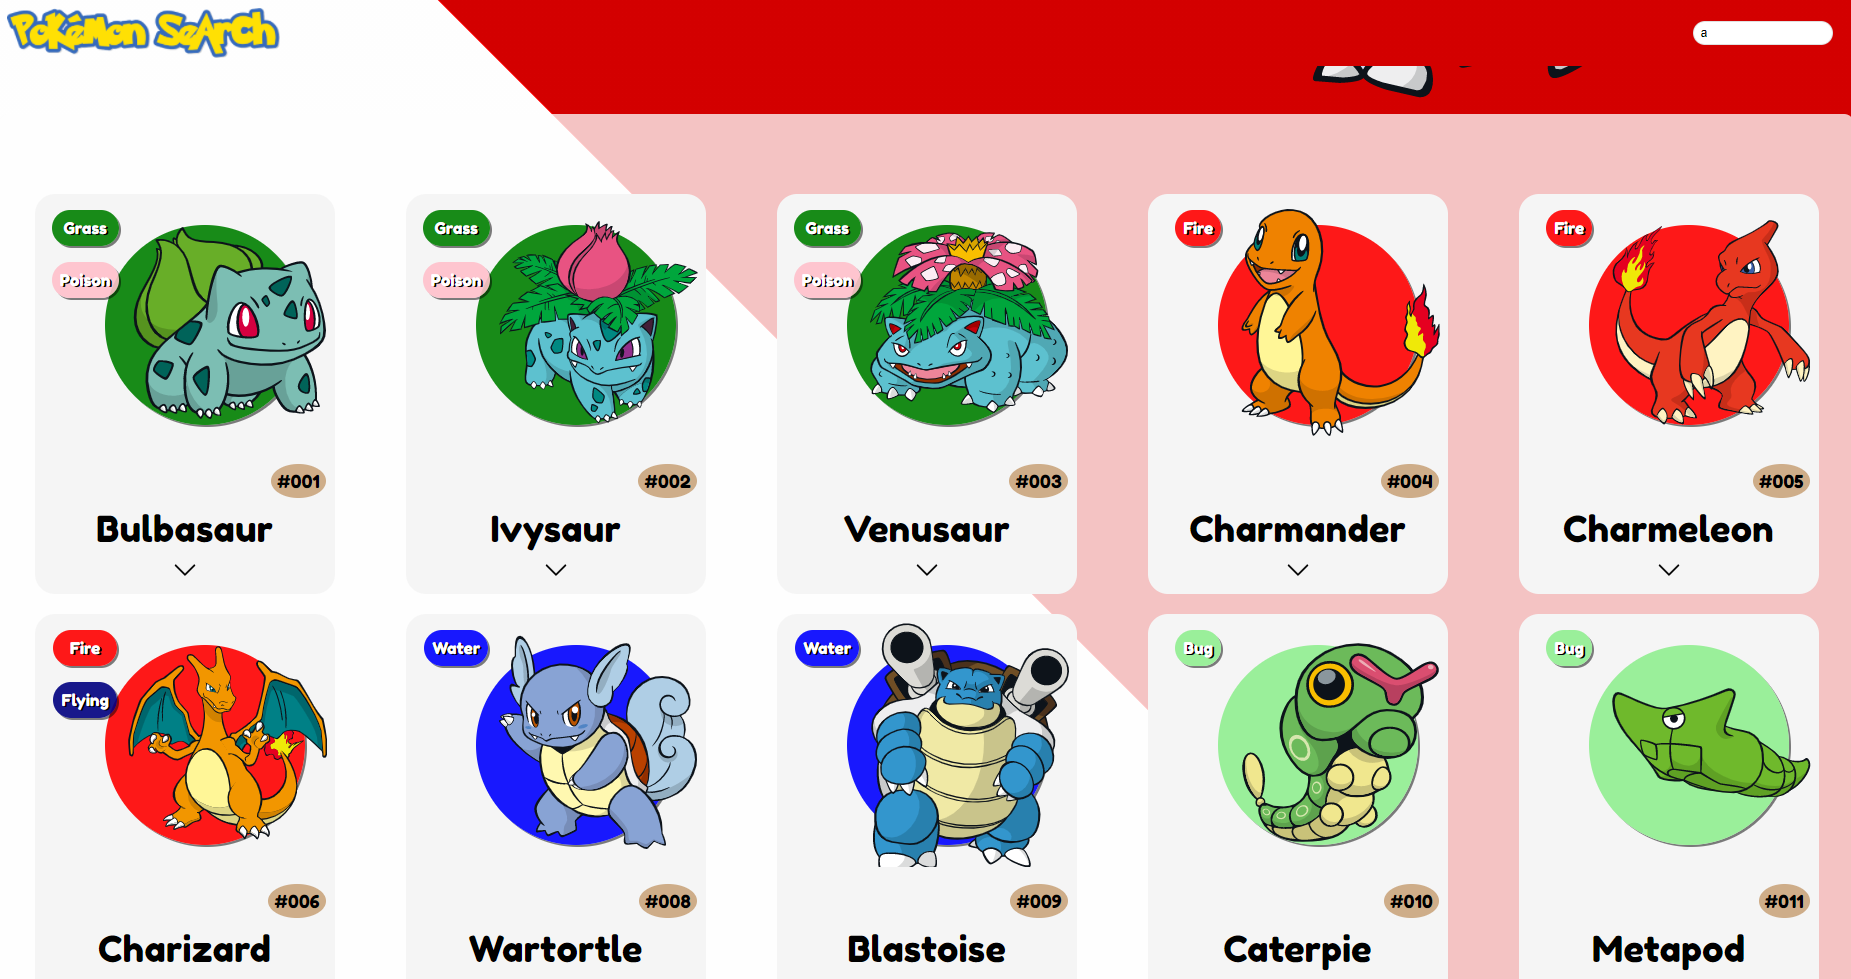
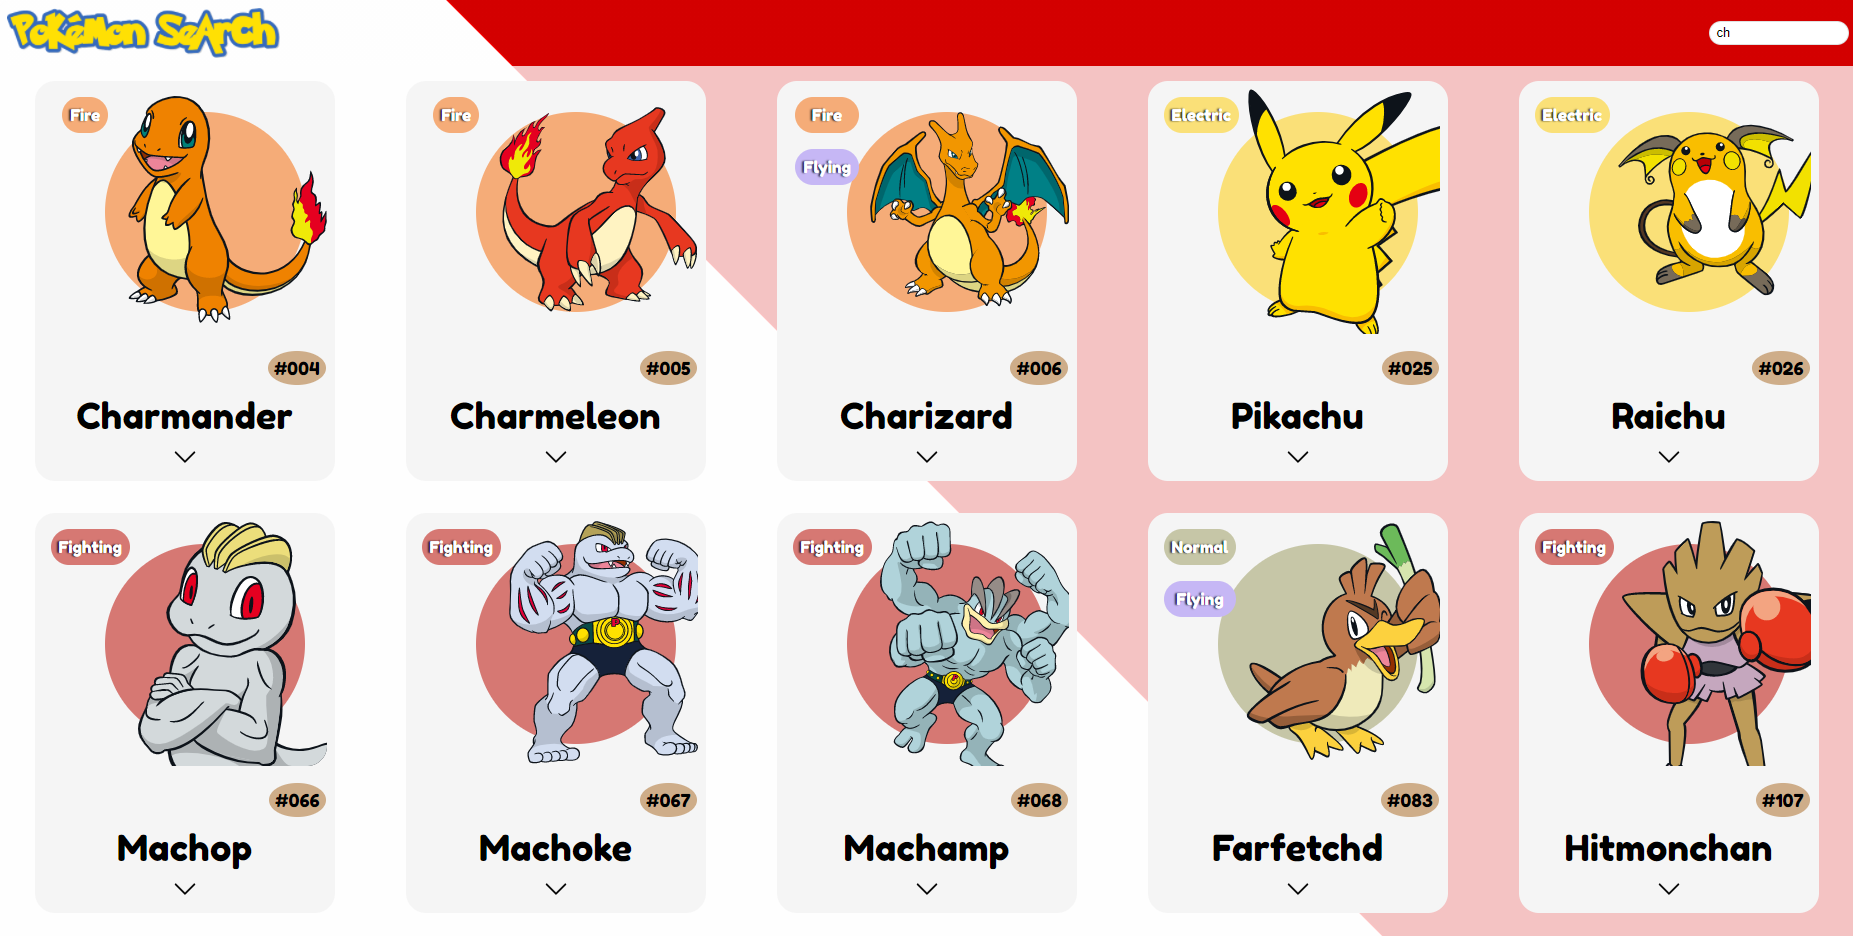
Alterada a paleta de cores dos tipo de pokemons

diff --git a/src/components/shared/card/Card.vue b/src/components/shared/card/Card.vue
@@ -58,12 +58,9 @@
         </svg>
 
         <transition name="card_fade">
-          <div v-show="visible">
-            Lorem ipsum, dolor sit amet consectetur adipisicing elit. Impedit
-            cupiditate officia architecto eveniet hic earum ab ad quae optio nam
-            esse voluptatem, corporis totam rerum fugit temporibus id aspernatur
-            tempore.
-          </div>
+          <ul v-show="visible" v-for="stat of pokemon.stats">
+            <li>{{ stat.stat.name }} - {{ stat.base_stat }}</li>
+          </ul>
         </transition>
       </div>
     </div>
@@ -97,73 +94,73 @@ export default {
 
 <style scoped>
 .normal {
-  background: rgba(241, 241, 241, 0.9);
-  box-shadow: 2px 2px rgba(0, 0, 0, 0.2);
+  background: #C6C6A7;
 }
 .fire {
-  background: rgba(255, 0, 0, 0.9);
-  box-shadow: 2px 2px rgba(0, 0, 0, 0.5);
+  background: #F5AC78;
 }
 .water {
-  background: rgba(0, 0, 255, 0.9);
-  box-shadow: 2px 2px rgba(0, 0, 0, 0.5);
+  background: #9DB7F5;
 }
 .grass {
-  background: rgba(0, 128, 0, 0.9);
-  box-shadow: 2px 2px rgba(0, 0, 0, 0.5);
+  background: #A7DB8D;
 }
 .electric {
-  background: rgba(255, 255, 0, 0.9);
-  box-shadow: 2px 2px rgba(0, 0, 0, 0.5);
+  background: #FAE078
 }
 .ice {
-  background: rgba(173, 216, 230, 0.9);
-  box-shadow: 2px 2px rgba(0, 0, 0, 0.5);
+  background: #BCE6E6;
 }
-.poison,
+.poison {
+  background: #C183C1;
+}
 .fairy {
-  background: rgba(255, 192, 203, 0.9);
-  box-shadow: 2px 2px rgba(0, 0, 0, 0.5);
+  background: #FABDC9;
 }
 .psychic {
-  background: rgba(128, 0, 128, 0.9);
-  box-shadow: 2px 2px rgba(0, 0, 0, 0.5);
+ background: #FA92B2;
+}
+.physical {
+  background: #d96358;
 }
 .fighting {
-  background: rgba(139, 0, 0, 0.9);
-  box-shadow: 2px 2px rgba(0, 0, 0, 0.5);
+  background: #D67873;
 }
 .ground {
-  background: rgba(165, 42, 42, 0.9);
-  box-shadow: 2px 2px rgba(0, 0, 0, 0.5);
+  background: #EBD69D;
 }
 .rock {
-  background: rgba(128, 128, 128, 0.9);
-  box-shadow: 2px 2px rgba(0, 0, 0, 0.5);
+  background: #D1C17D;
 }
 .bug {
-  background: rgba(144, 238, 144, 0.9);
-  box-shadow: 2px 2px rgba(0, 0, 0, 0.5);
+  background: #C6D16E;
 }
 .flying {
-  background: rgba(0, 0, 128, 0.9);
-  box-shadow: 2px 2px rgba(0, 0, 0, 0.5);
+  background: #C6B7F5;
 }
 .ghost {
-  background: rgba(230, 230, 250, 0.9);
-  box-shadow: 2px 2px rgba(0, 0, 0, 0.5);
+  background: #A292BC;
 }
 .dragon {
-  background: rgba(255, 166, 0, 0.9);
-  box-shadow: 2px 2px rgba(0, 0, 0, 0.5);
+  background: #A27DFA
 }
 .steel {
-  background: rgba(192, 192, 192, 0.9);
-  box-shadow: 2px 2px rgba(0, 0, 0, 0.5);
+  background: #D1D1E0;
 }
 .dark {
-  background: rgba(0, 0, 0, 0.9);
-  box-shadow: 2px 2px rgba(0, 0, 0, 0.5);
+  background: #A29288
+}
+
+.special {
+  background: #83899a;
+}
+
+.status {
+  background: #aeabae;
+}
+
+.typeless {
+  background: #9DC1B7;
 }
 
 .menu {
@@ -207,8 +204,7 @@ export default {
   text-transform: capitalize;
   list-style: none;
   color: white;
-  font-weight: 400;
-  text-shadow: 2px 1px black;
+  text-shadow: -2px 0px 2px #000000cc;
 }
 .card_header > .card_image {
   grid-area: image;
@@ -243,7 +239,6 @@ export default {
 
 .card_name > p {
   font-size: 18px;
-  background: pink;
   background: #9c530070;
   padding: 0.325em;
   margin: 0.5em;

diff --git a/src/domain/pokemon/PokemonService.js b/src/domain/pokemon/PokemonService.js
@@ -10,6 +10,14 @@ export default class PokemonService {
         res.data.results.map((pokemon, index) => {
           pokemon.id = index + 1;
           pokemon.imageURL = `https://raw.githubusercontent.com/PokeAPI/sprites/master/sprites/pokemon/other/dream-world/${pokemon.id}.svg`;
+
+          this.searchDetail(pokemon.id).then(res => {
+            pokemon.types = res.types;
+            pokemon.stats = res.stats;
+            
+            return poke;
+          });
+
           return pokemon;
         })
       )
@@ -21,8 +29,8 @@ export default class PokemonService {
       });
   }
 
-   searchDetail(id) {
-    return  this.axios
+  searchDetail(id) {
+    return this.axios
       .get(`/${id}`)
       .then(res => res.data)
       .catch(err => {

diff --git a/src/components/home/Home.vue b/src/components/home/Home.vue
@@ -50,15 +50,12 @@ export default {
     pokemonService
       .list()
       .then((res) => {
-        this.pokemons = res.map((poke) => {
-          pokemonService.searchDetail(poke.id).then((res) => {
-            poke.types = res.types;
-          });
-          return poke;
-        });
+        this.pokemons = res;
+        console.log(res)
         this.pokemonRandom();
       })
       .catch((err) => console.error(err));
+
   },
   computed: {
     searchPokeName() {
@@ -83,7 +80,7 @@ export default {
       if (el) {
         setTimeout(function () {
           el.scrollIntoView({ behavior: "smooth" });
-        }, 1);
+        }, 500);
       }
     },
   },

diff --git a/src/components/shared/menu/Menu.vue b/src/components/shared/menu/Menu.vue
@@ -25,6 +25,7 @@ nav {
   padding: .5em 0;
   top: 0;
   z-index: 100;
+  width: 100%;
 }
 
 nav > img {

diff --git a/README.md b/README.md
@@ -9,6 +9,8 @@
 
 ## Build Setup 🔥
 
+> É necessário instalar o [NodeJs](https://nodejs.org/en/download/)
+
 ```  bash
 
 # Instalar dependências
